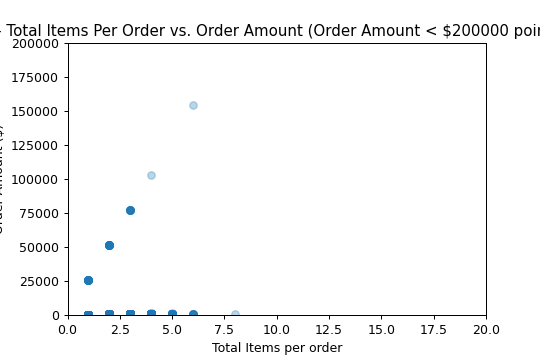
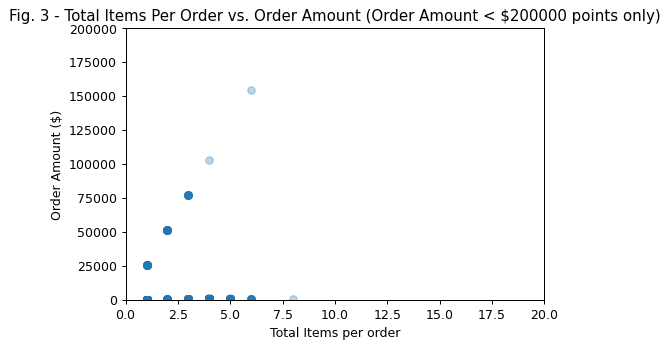
Q1 Figs now get exported (from the .py file) with proper margins

diff --git a/Q1_ShopifyDataScienceChallenge.py b/Q1_ShopifyDataScienceChallenge.py
@@ -23,7 +23,7 @@ plt.title('Fig. 1 - Order ID vs. Order Amount')
 plt.xlabel('OrderID')
 plt.ylabel('Order Amount ($)')
 plt.scatter(df.order_id,df.order_amount, alpha = 0.3)
-plt.savefig("Q1_Fig1.png",dpi=90)
+plt.savefig("Q1_Fig1.png",bbox_inches = "tight",dpi=90)
 
 #From examining the Fig 1 Order ID vs. Order Amount plot, it can be seen that a few 
 #orders are around $700,000 for the order amount. In addition, some orders around 
@@ -35,7 +35,7 @@ plt.title('Fig 2. - Total Items Per Order vs. Order Amount')
 plt.xlabel('Total Items per order')
 plt.ylabel('Order Amount ($)')
 plt.scatter(df.total_items,df.order_amount, alpha = 0.3)
-plt.savefig("Q1_Fig2.png",dpi=90)
+plt.savefig("Q1_Fig2.png",bbox_inches = "tight",dpi=90)
 
 #From the Fig 2 Total Items per Order vs. Order Amount plot, it can be seen that two groups
 # of data points exist; one on the low range of total items and one around roughly
@@ -50,7 +50,7 @@ plt.ylabel('Order Amount ($)')
 plt.xlim([0,20])
 plt.ylim([0,200000])
 plt.scatter(df.total_items,df.order_amount, alpha = 0.3)
-plt.savefig("Q1_Fig3.png",dpi=90)
+plt.savefig("Q1_Fig3.png",bbox_inches = "tight",dpi=90)
 
 #From looking at the Fig. 3 Total Items per Order vs. Order Amount plot concentrating on the lower ranged
 #data points, it can be seen that several data points with a low Order amount exist while
@@ -68,7 +68,7 @@ plt.ylabel('Order Amount ($)')
 plt.xlim([0,10])
 plt.ylim([0,3000])
 plt.scatter(df.total_items,df.order_amount, alpha = 0.3)
-plt.savefig("Q1_Fig4.png",dpi=90)
+plt.savefig("Q1_Fig4.png",bbox_inches = "tight",dpi=90)
 #These data points appear normal. Order amount goes up with No. of items ordered and the
 #cost seems within reasonable range.
 
